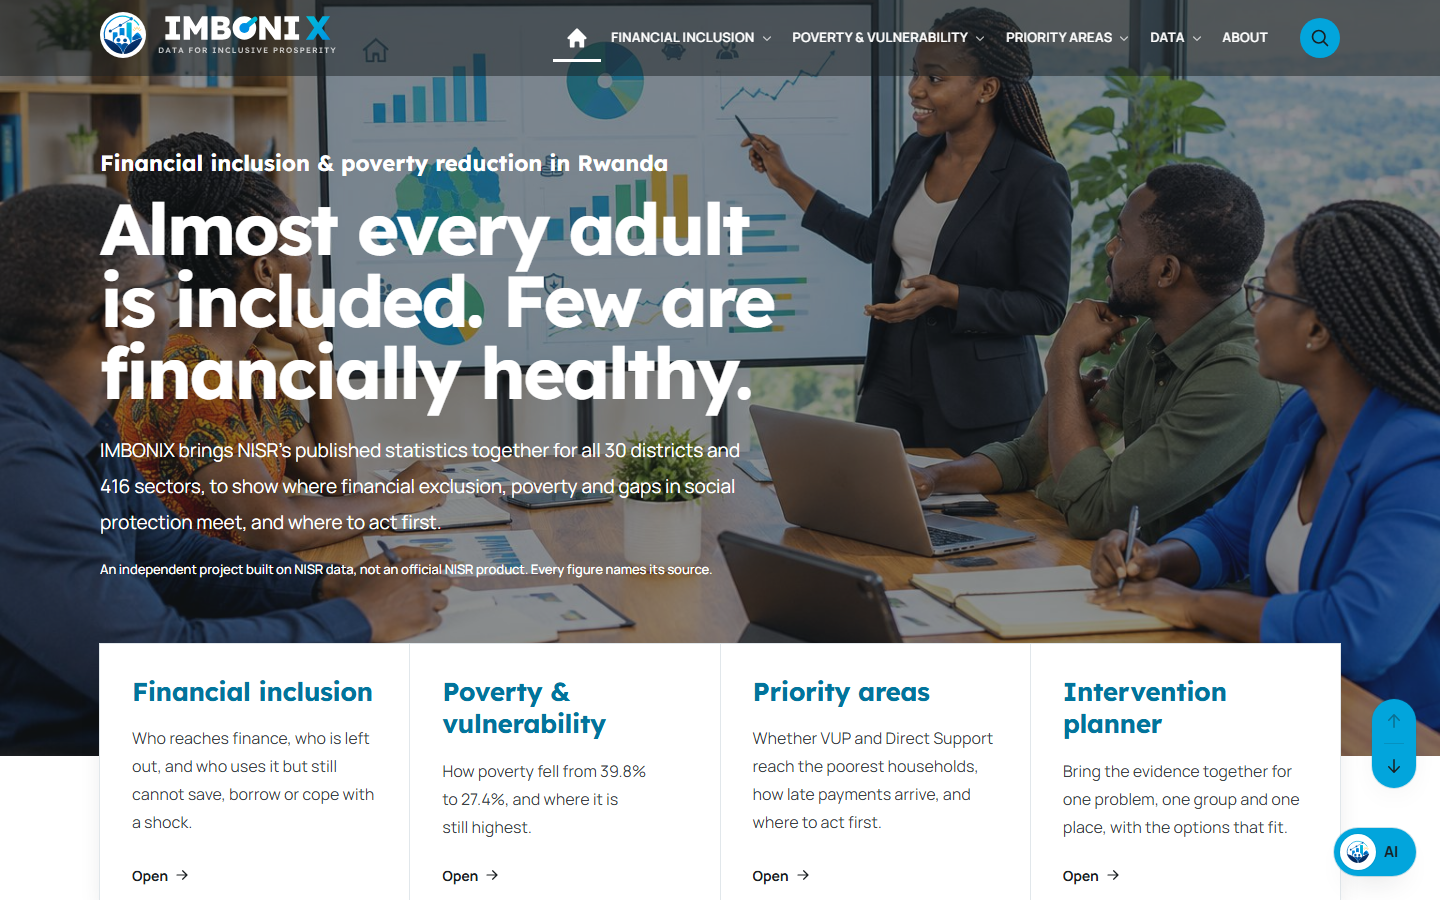
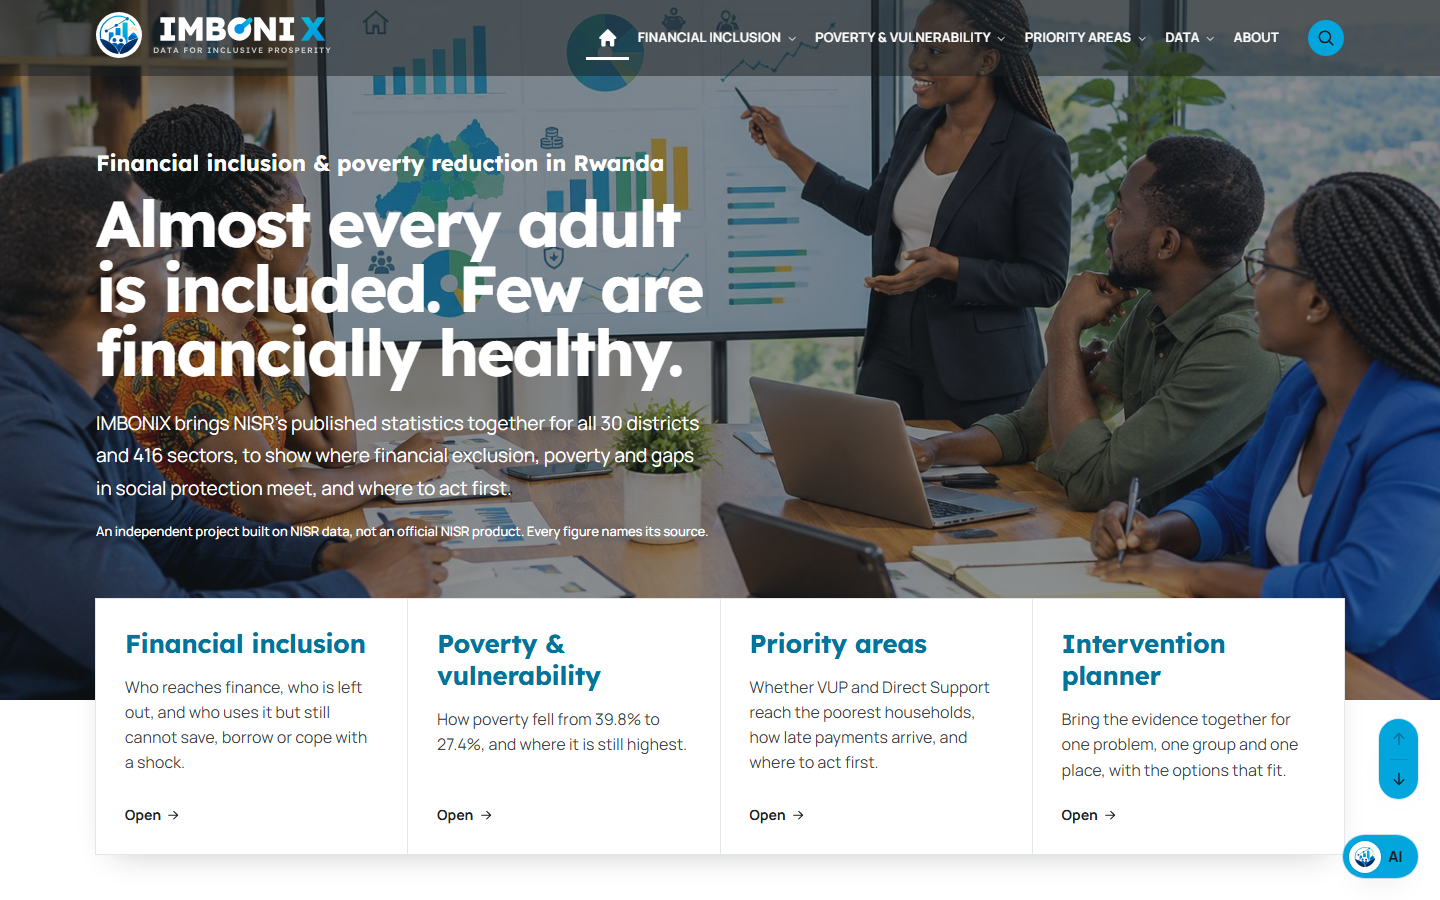
style(web): reduce the root font size to 90% for a more compact, less-zoomed UI
Scales every rem-based heading and all spacing down proportionally, so more
content fits above the fold and the interface reads less "zoomed", while the
pixel-set body text stays readable. All four homepage cards now fit the fold.
Refresh home.png.

diff --git a/apps/web/src/app/globals.css b/apps/web/src/app/globals.css
@@ -37,6 +37,9 @@
 }
 
 html {
+  /* A slightly smaller root so the whole UI reads a touch more compact (less "zoomed"): every rem-based heading and all
+     spacing scale down with it, while the pixel-set body text stays readable. */
+  font-size: 90%;
   background: #ffffff;
   scroll-behavior: smooth;
   -webkit-text-size-adjust: 100%;
